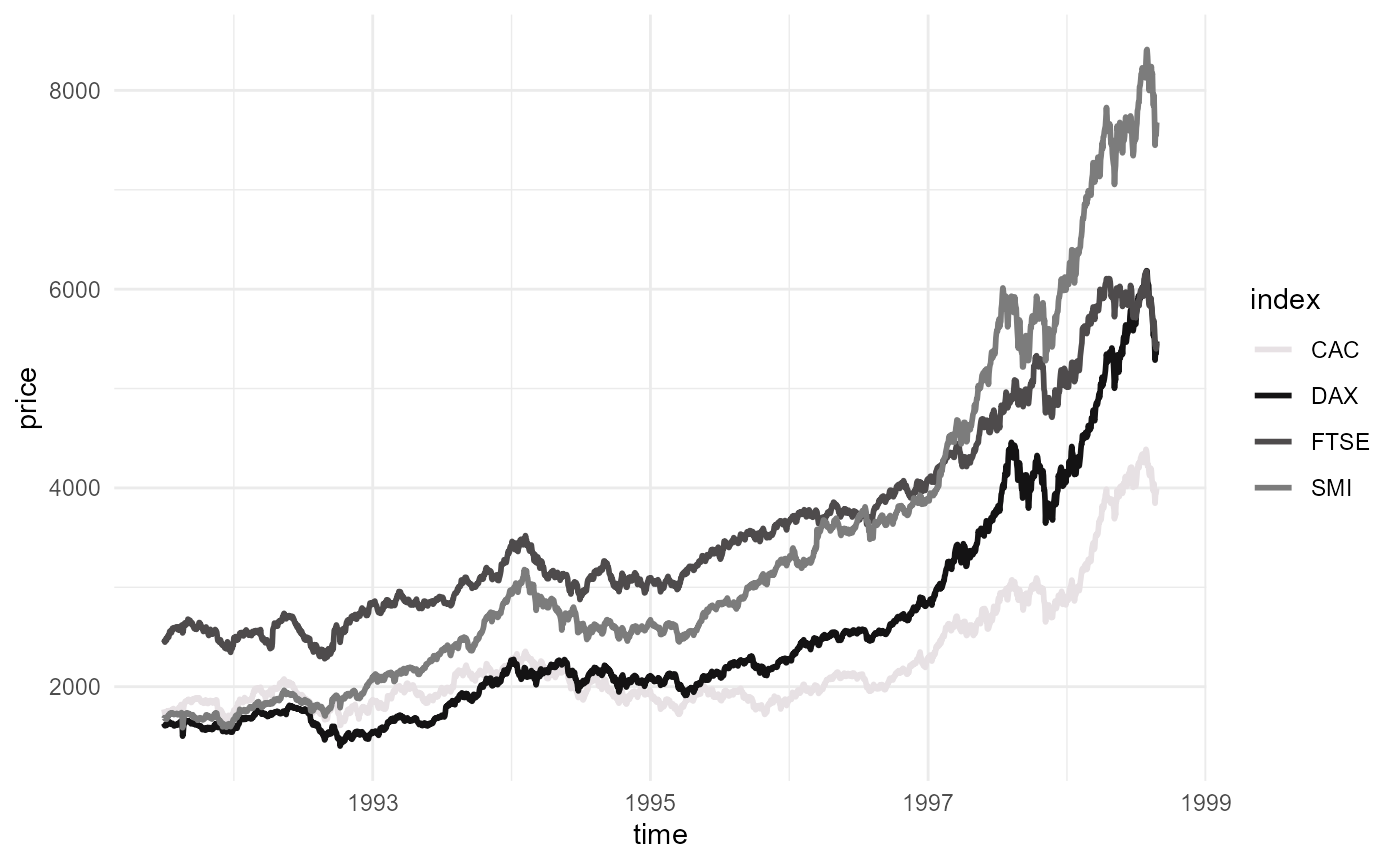
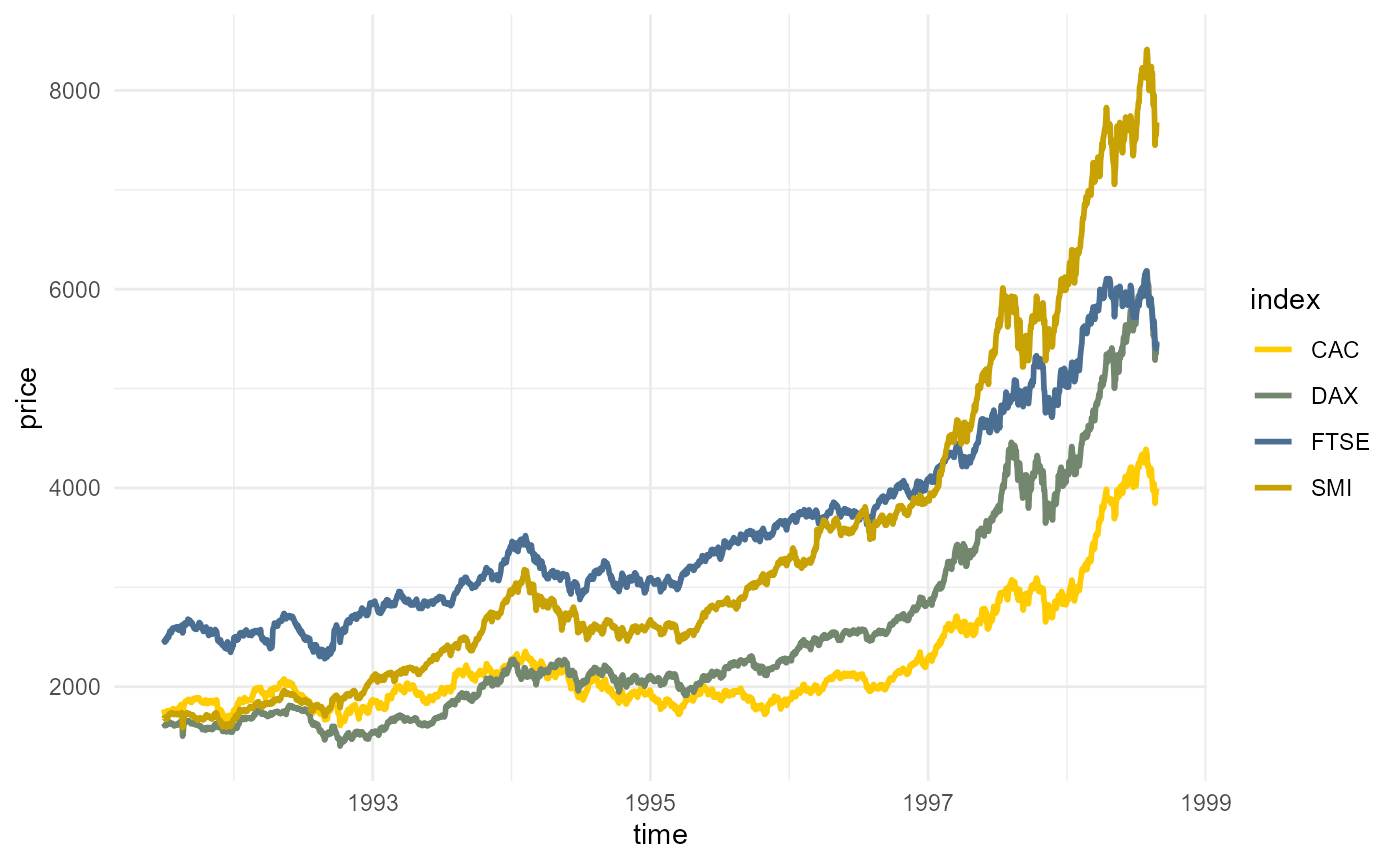
page_web

diff --git a/docs/articles/simple_examples.html b/docs/articles/simple_examples.html
@@ -753,7 +753,7 @@
   <span class="fu"><a href="https://dplyr.tidyverse.org/reference/mutate.html" class="external-link">mutate</a></span><span class="op">(</span>time <span class="op">=</span> <span class="fu"><a href="https://rdrr.io/r/base/rep.html" class="external-link">rep</a></span><span class="op">(</span><span class="fu"><a href="https://rdrr.io/r/stats/time.html" class="external-link">time</a></span><span class="op">(</span><span class="va">EuStockMarkets</span><span class="op">)</span>, <span class="fl">4</span><span class="op">)</span><span class="op">)</span> <span class="op"><a href="https://magrittr.tidyverse.org/reference/pipe.html" class="external-link">%&gt;%</a></span> 
   <span class="fu"><a href="https://ggplot2.tidyverse.org/reference/ggplot.html" class="external-link">ggplot</a></span><span class="op">(</span><span class="op">)</span><span class="op">+</span>
   <span class="fu"><a href="https://ggplot2.tidyverse.org/reference/geom_path.html" class="external-link">geom_line</a></span><span class="op">(</span><span class="fu"><a href="https://ggplot2.tidyverse.org/reference/aes.html" class="external-link">aes</a></span><span class="op">(</span>color <span class="op">=</span> <span class="va">index</span>,x<span class="op">=</span><span class="va">time</span>,y<span class="op">=</span><span class="va">price</span><span class="op">)</span>, size <span class="op">=</span> <span class="fl">1</span><span class="op">)</span> <span class="op">+</span>
-  <span class="fu"><a href="../reference/scale_color_rseries.html">scale_color_rseries</a></span><span class="op">(</span>palette <span class="op">=</span> <span class="st">"Calamar"</span><span class="op">)</span>  <span class="op">+</span>
+  <span class="fu"><a href="../reference/scale_color_rseries.html">scale_color_rseries</a></span><span class="op">(</span>palette <span class="op">=</span> <span class="st">"poke"</span>,palette_family <span class="op">=</span> <span class="va">palette_anime</span><span class="op">)</span>  <span class="op">+</span>
   <span class="fu"><a href="https://ggplot2.tidyverse.org/reference/ggtheme.html" class="external-link">theme_minimal</a></span><span class="op">(</span><span class="op">)</span></code></pre></div>
 <p><img src="simple_examples_files/figure-html/unnamed-chunk-20-1.png" width="700" style="display: block; margin: auto;"></p>
 </div>
